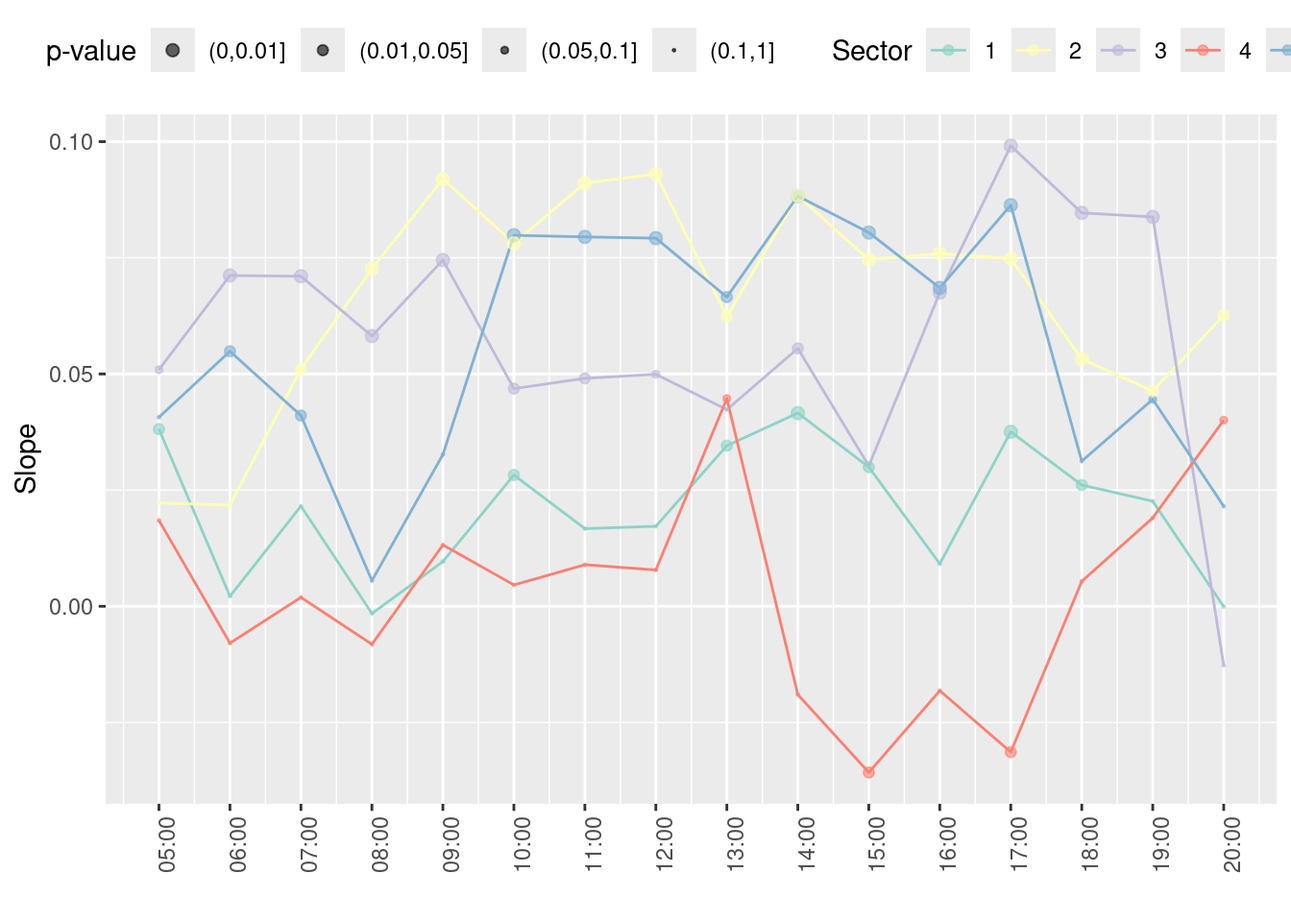
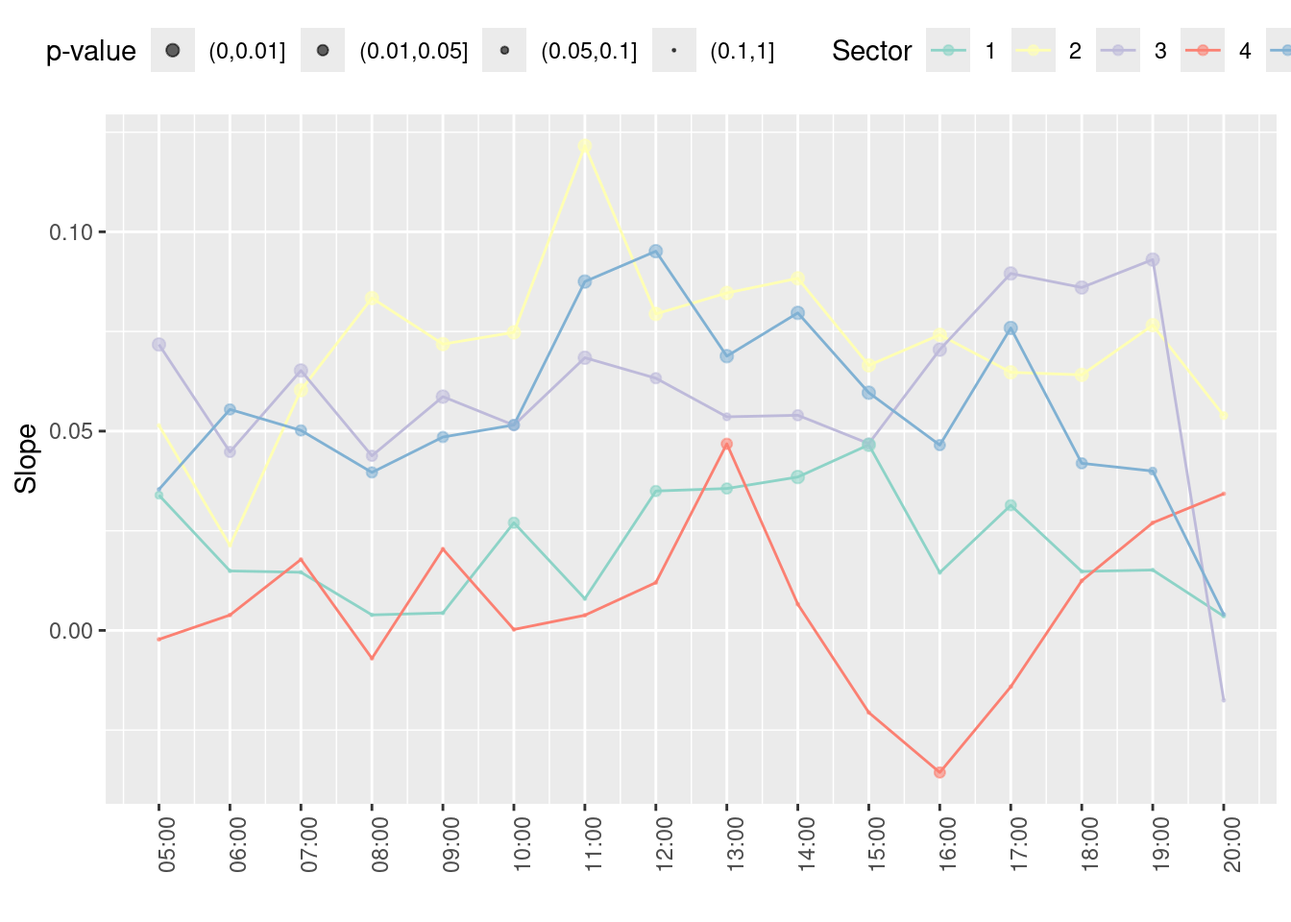
Built site for gh-pages

diff --git a/3B_Analysis_WWD_allowed.html b/3B_Analysis_WWD_allowed.html
@@ -1097,28 +1097,56 @@ Projected CRS: MAGNA-SIRGAS / Colombia Bogota zone
 <span id="cb58-2"><a href="#cb58-2" aria-hidden="true" tabindex="-1"></a>  <span class="fu">filter</span>(day_type <span class="sc">==</span> <span class="st">"weekday"</span>) <span class="sc">|&gt;</span> </span>
 <span id="cb58-3"><a href="#cb58-3" aria-hidden="true" tabindex="-1"></a>  <span class="fu">mutate</span>(<span class="at">stars =</span> <span class="fu">cut</span>( p.value,</span>
 <span id="cb58-4"><a href="#cb58-4" aria-hidden="true" tabindex="-1"></a>                      <span class="at">breaks =</span> <span class="fu">c</span>(<span class="dv">0</span>,<span class="fl">0.01</span>,<span class="fl">0.05</span>,<span class="fl">0.1</span>,<span class="dv">1</span>))) <span class="sc">|&gt;</span> </span>
-<span id="cb58-5"><a href="#cb58-5" aria-hidden="true" tabindex="-1"></a>  <span class="fu">filter</span>(term <span class="sc">==</span> <span class="st">"intercept"</span>,<span class="fu">between</span>(hour,<span class="dv">5</span>,<span class="dv">20</span>)) <span class="sc">|&gt;</span> </span>
-<span id="cb58-6"><a href="#cb58-6" aria-hidden="true" tabindex="-1"></a>  <span class="fu">ggplot</span>(<span class="fu">aes</span>(<span class="at">x =</span> hour,</span>
-<span id="cb58-7"><a href="#cb58-7" aria-hidden="true" tabindex="-1"></a>             <span class="at">y =</span> (estimate)</span>
+<span id="cb58-5"><a href="#cb58-5" aria-hidden="true" tabindex="-1"></a>  <span class="fu">filter</span>(term <span class="sc">==</span> <span class="st">"slope"</span>,<span class="fu">between</span>(hour,<span class="dv">5</span>,<span class="dv">20</span>)) <span class="sc">|&gt;</span> </span>
+<span id="cb58-6"><a href="#cb58-6" aria-hidden="true" tabindex="-1"></a>  <span class="fu">ggplot</span>(<span class="fu">aes</span>(<span class="at">x =</span> <span class="fu">factor</span>(sector),</span>
+<span id="cb58-7"><a href="#cb58-7" aria-hidden="true" tabindex="-1"></a>             <span class="at">y =</span> estimate</span>
 <span id="cb58-8"><a href="#cb58-8" aria-hidden="true" tabindex="-1"></a>             ))<span class="sc">+</span></span>
-<span id="cb58-9"><a href="#cb58-9" aria-hidden="true" tabindex="-1"></a>  <span class="fu">geom_line</span>(<span class="fu">aes</span>(<span class="at">col =</span> <span class="fu">factor</span>(sector)))<span class="sc">+</span></span>
-<span id="cb58-10"><a href="#cb58-10" aria-hidden="true" tabindex="-1"></a>    <span class="fu">geom_point</span>(<span class="fu">aes</span>(<span class="at">size =</span> stars,<span class="at">col =</span> <span class="fu">factor</span>(sector)),<span class="at">alpha =</span> <span class="fl">0.6</span>)<span class="sc">+</span></span>
-<span id="cb58-11"><a href="#cb58-11" aria-hidden="true" tabindex="-1"></a>  <span class="co"># facet_grid(.~sector)+</span></span>
-<span id="cb58-12"><a href="#cb58-12" aria-hidden="true" tabindex="-1"></a>  <span class="fu">theme</span>(<span class="at">legend.position =</span> <span class="st">"top"</span>)<span class="sc">+</span></span>
-<span id="cb58-13"><a href="#cb58-13" aria-hidden="true" tabindex="-1"></a>  <span class="fu">scale_color_brewer</span>(<span class="at">type =</span> <span class="st">"qual"</span>,</span>
-<span id="cb58-14"><a href="#cb58-14" aria-hidden="true" tabindex="-1"></a>                     <span class="at">palette =</span> <span class="st">"Set3"</span>)<span class="sc">+</span></span>
-<span id="cb58-15"><a href="#cb58-15" aria-hidden="true" tabindex="-1"></a>  <span class="fu">scale_size_manual</span>(<span class="at">values =</span> <span class="fu">c</span>(<span class="dv">1</span>,<span class="fl">0.8</span>,<span class="fl">0.5</span>,<span class="fl">0.1</span>)<span class="sc">*</span><span class="dv">2</span>,<span class="at">na.value =</span> <span class="dv">0</span>)<span class="sc">+</span></span>
-<span id="cb58-16"><a href="#cb58-16" aria-hidden="true" tabindex="-1"></a>  <span class="fu">labs</span>(<span class="at">y =</span> <span class="st">"Intercept"</span>,</span>
-<span id="cb58-17"><a href="#cb58-17" aria-hidden="true" tabindex="-1"></a>       <span class="at">x =</span> <span class="st">""</span>,</span>
-<span id="cb58-18"><a href="#cb58-18" aria-hidden="true" tabindex="-1"></a>       <span class="at">col =</span> <span class="st">"Sector"</span>,<span class="at">size =</span> <span class="st">"p-value"</span>)<span class="sc">+</span></span>
-<span id="cb58-19"><a href="#cb58-19" aria-hidden="true" tabindex="-1"></a>  <span class="fu">theme</span>(<span class="at">legend.byrow =</span> T,</span>
-<span id="cb58-20"><a href="#cb58-20" aria-hidden="true" tabindex="-1"></a>        <span class="at">axis.text.x =</span> <span class="fu">element_text</span>(<span class="at">angle =</span> <span class="dv">90</span>))<span class="sc">+</span></span>
-<span id="cb58-21"><a href="#cb58-21" aria-hidden="true" tabindex="-1"></a>  <span class="fu">scale_x_continuous</span>(<span class="at">breaks =</span> <span class="dv">0</span><span class="sc">:</span><span class="dv">24</span>,</span>
-<span id="cb58-22"><a href="#cb58-22" aria-hidden="true" tabindex="-1"></a>                     <span class="at">labels =</span> <span class="fu">sprintf</span>(<span class="st">"%02d:00"</span>,<span class="dv">0</span><span class="sc">:</span><span class="dv">24</span>))</span></code><button title="Copy to Clipboard" class="code-copy-button"><i class="bi"></i></button></pre></div>
+<span id="cb58-9"><a href="#cb58-9" aria-hidden="true" tabindex="-1"></a>  <span class="fu">geom_point</span>(<span class="fu">aes</span>(<span class="at">col =</span> <span class="fu">factor</span>(sector),<span class="at">size =</span> stars))<span class="sc">+</span></span>
+<span id="cb58-10"><a href="#cb58-10" aria-hidden="true" tabindex="-1"></a>  <span class="co"># facet_grid(.~sector)+</span></span>
+<span id="cb58-11"><a href="#cb58-11" aria-hidden="true" tabindex="-1"></a>  <span class="fu">theme</span>(<span class="at">legend.position =</span> <span class="st">"top"</span>)<span class="sc">+</span></span>
+<span id="cb58-12"><a href="#cb58-12" aria-hidden="true" tabindex="-1"></a>  <span class="fu">scale_color_brewer</span>(<span class="at">type =</span> <span class="st">"qual"</span>,</span>
+<span id="cb58-13"><a href="#cb58-13" aria-hidden="true" tabindex="-1"></a>                     <span class="at">palette =</span> <span class="st">"Set3"</span>)<span class="sc">+</span></span>
+<span id="cb58-14"><a href="#cb58-14" aria-hidden="true" tabindex="-1"></a>  <span class="fu">scale_size_manual</span>(<span class="at">values =</span> <span class="fu">c</span>(<span class="dv">1</span>,<span class="fl">0.8</span>,<span class="fl">0.5</span>,<span class="fl">0.1</span>)<span class="sc">*</span><span class="dv">2</span>,<span class="at">na.value =</span> <span class="dv">0</span>)<span class="sc">+</span></span>
+<span id="cb58-15"><a href="#cb58-15" aria-hidden="true" tabindex="-1"></a>  <span class="fu">labs</span>(<span class="at">y =</span> <span class="st">"Slope"</span>,</span>
+<span id="cb58-16"><a href="#cb58-16" aria-hidden="true" tabindex="-1"></a>       <span class="at">x =</span> <span class="st">"Sector"</span>,</span>
+<span id="cb58-17"><a href="#cb58-17" aria-hidden="true" tabindex="-1"></a>       <span class="at">size =</span> <span class="st">"p-value"</span>)<span class="sc">+</span></span>
+<span id="cb58-18"><a href="#cb58-18" aria-hidden="true" tabindex="-1"></a>  <span class="fu">guides</span>(<span class="at">color =</span> <span class="st">"none"</span>)<span class="sc">+</span></span>
+<span id="cb58-19"><a href="#cb58-19" aria-hidden="true" tabindex="-1"></a>  <span class="fu">coord_flip</span>()</span></code><button title="Copy to Clipboard" class="code-copy-button"><i class="bi"></i></button></pre></div>
 <div class="cell-output-display">
 <div>
 <figure class="figure">
 <p><img src="3B_Analysis_WWD_allowed_files/figure-html/unnamed-chunk-53-1.png" class="img-fluid figure-img" width="672"></p>
+</figure>
+</div>
+</div>
+</div>
+<div class="cell">
+<div class="sourceCode cell-code" id="cb59"><pre class="sourceCode r code-with-copy"><code class="sourceCode r"><span id="cb59-1"><a href="#cb59-1" aria-hidden="true" tabindex="-1"></a>coefs_sec_sampled <span class="sc">|&gt;</span> </span>
+<span id="cb59-2"><a href="#cb59-2" aria-hidden="true" tabindex="-1"></a>  <span class="fu">filter</span>(day_type <span class="sc">==</span> <span class="st">"weekday"</span>) <span class="sc">|&gt;</span> </span>
+<span id="cb59-3"><a href="#cb59-3" aria-hidden="true" tabindex="-1"></a>  <span class="fu">mutate</span>(<span class="at">stars =</span> <span class="fu">cut</span>( p.value,</span>
+<span id="cb59-4"><a href="#cb59-4" aria-hidden="true" tabindex="-1"></a>                      <span class="at">breaks =</span> <span class="fu">c</span>(<span class="dv">0</span>,<span class="fl">0.01</span>,<span class="fl">0.05</span>,<span class="fl">0.1</span>,<span class="dv">1</span>))) <span class="sc">|&gt;</span> </span>
+<span id="cb59-5"><a href="#cb59-5" aria-hidden="true" tabindex="-1"></a>  <span class="fu">filter</span>(term <span class="sc">==</span> <span class="st">"intercept"</span>,<span class="fu">between</span>(hour,<span class="dv">5</span>,<span class="dv">20</span>)) <span class="sc">|&gt;</span> </span>
+<span id="cb59-6"><a href="#cb59-6" aria-hidden="true" tabindex="-1"></a>  <span class="fu">ggplot</span>(<span class="fu">aes</span>(<span class="at">x =</span> hour,</span>
+<span id="cb59-7"><a href="#cb59-7" aria-hidden="true" tabindex="-1"></a>             <span class="at">y =</span> (estimate)</span>
+<span id="cb59-8"><a href="#cb59-8" aria-hidden="true" tabindex="-1"></a>             ))<span class="sc">+</span></span>
+<span id="cb59-9"><a href="#cb59-9" aria-hidden="true" tabindex="-1"></a>  <span class="fu">geom_line</span>(<span class="fu">aes</span>(<span class="at">col =</span> <span class="fu">factor</span>(sector)))<span class="sc">+</span></span>
+<span id="cb59-10"><a href="#cb59-10" aria-hidden="true" tabindex="-1"></a>    <span class="fu">geom_point</span>(<span class="fu">aes</span>(<span class="at">size =</span> stars,<span class="at">col =</span> <span class="fu">factor</span>(sector)),<span class="at">alpha =</span> <span class="fl">0.6</span>)<span class="sc">+</span></span>
+<span id="cb59-11"><a href="#cb59-11" aria-hidden="true" tabindex="-1"></a>  <span class="co"># facet_grid(.~sector)+</span></span>
+<span id="cb59-12"><a href="#cb59-12" aria-hidden="true" tabindex="-1"></a>  <span class="fu">theme</span>(<span class="at">legend.position =</span> <span class="st">"top"</span>)<span class="sc">+</span></span>
+<span id="cb59-13"><a href="#cb59-13" aria-hidden="true" tabindex="-1"></a>  <span class="fu">scale_color_brewer</span>(<span class="at">type =</span> <span class="st">"qual"</span>,</span>
+<span id="cb59-14"><a href="#cb59-14" aria-hidden="true" tabindex="-1"></a>                     <span class="at">palette =</span> <span class="st">"Set3"</span>)<span class="sc">+</span></span>
+<span id="cb59-15"><a href="#cb59-15" aria-hidden="true" tabindex="-1"></a>  <span class="fu">scale_size_manual</span>(<span class="at">values =</span> <span class="fu">c</span>(<span class="dv">1</span>,<span class="fl">0.8</span>,<span class="fl">0.5</span>,<span class="fl">0.1</span>)<span class="sc">*</span><span class="dv">2</span>,<span class="at">na.value =</span> <span class="dv">0</span>)<span class="sc">+</span></span>
+<span id="cb59-16"><a href="#cb59-16" aria-hidden="true" tabindex="-1"></a>  <span class="fu">labs</span>(<span class="at">y =</span> <span class="st">"Intercept"</span>,</span>
+<span id="cb59-17"><a href="#cb59-17" aria-hidden="true" tabindex="-1"></a>       <span class="at">x =</span> <span class="st">""</span>,</span>
+<span id="cb59-18"><a href="#cb59-18" aria-hidden="true" tabindex="-1"></a>       <span class="at">col =</span> <span class="st">"Sector"</span>,<span class="at">size =</span> <span class="st">"p-value"</span>)<span class="sc">+</span></span>
+<span id="cb59-19"><a href="#cb59-19" aria-hidden="true" tabindex="-1"></a>  <span class="fu">theme</span>(<span class="at">legend.byrow =</span> T,</span>
+<span id="cb59-20"><a href="#cb59-20" aria-hidden="true" tabindex="-1"></a>        <span class="at">axis.text.x =</span> <span class="fu">element_text</span>(<span class="at">angle =</span> <span class="dv">90</span>))<span class="sc">+</span></span>
+<span id="cb59-21"><a href="#cb59-21" aria-hidden="true" tabindex="-1"></a>  <span class="fu">scale_x_continuous</span>(<span class="at">breaks =</span> <span class="dv">0</span><span class="sc">:</span><span class="dv">24</span>,</span>
+<span id="cb59-22"><a href="#cb59-22" aria-hidden="true" tabindex="-1"></a>                     <span class="at">labels =</span> <span class="fu">sprintf</span>(<span class="st">"%02d:00"</span>,<span class="dv">0</span><span class="sc">:</span><span class="dv">24</span>))</span></code><button title="Copy to Clipboard" class="code-copy-button"><i class="bi"></i></button></pre></div>
+<div class="cell-output-display">
+<div>
+<figure class="figure">
+<p><img src="3B_Analysis_WWD_allowed_files/figure-html/unnamed-chunk-54-1.png" class="img-fluid figure-img" width="672"></p>
 </figure>
 </div>
 </div>
@@ -1128,52 +1156,16 @@ Projected CRS: MAGNA-SIRGAS / Colombia Bogota zone
 <section id="daily-potential" class="level2">
 <h2 class="anchored" data-anchor-id="daily-potential">Daily potential</h2>
 <div class="cell">
-<div class="sourceCode cell-code" id="cb59"><pre class="sourceCode r code-with-copy"><code class="sourceCode r"><span id="cb59-1"><a href="#cb59-1" aria-hidden="true" tabindex="-1"></a>n_d10_logdiff_max <span class="ot">&lt;-</span> simpl_network_sf <span class="sc">|&gt;</span></span>
-<span id="cb59-2"><a href="#cb59-2" aria-hidden="true" tabindex="-1"></a>  <span class="fu">left_join</span>(summary_pairs,<span class="at">by =</span> <span class="st">"pair_id"</span>) <span class="sc">|&gt;</span>  </span>
-<span id="cb59-3"><a href="#cb59-3" aria-hidden="true" tabindex="-1"></a>  <span class="fu">mutate</span>(<span class="at">d10_bool =</span> logdiff_max <span class="sc">&gt;=</span> <span class="fu">quantile</span>(logdiff_max, <span class="fl">0.90</span>,<span class="at">na.rm =</span> T),</span>
-<span id="cb59-4"><a href="#cb59-4" aria-hidden="true" tabindex="-1"></a>         <span class="at">.by=</span><span class="fu">c</span>(hour,day_type,roadclass)) <span class="sc">|&gt;</span> </span>
-<span id="cb59-5"><a href="#cb59-5" aria-hidden="true" tabindex="-1"></a>  <span class="fu">st_drop_geometry</span>() <span class="sc">|&gt;</span> </span>
-<span id="cb59-6"><a href="#cb59-6" aria-hidden="true" tabindex="-1"></a>  <span class="fu">summarise</span>(<span class="at">n_d10 =</span> <span class="fu">sum</span>(d10_bool,<span class="at">na.rm =</span> T),<span class="at">.by =</span> <span class="fu">c</span>(pair_id,day_type)) <span class="sc">|&gt;</span> </span>
-<span id="cb59-7"><a href="#cb59-7" aria-hidden="true" tabindex="-1"></a>  <span class="fu">pivot_wider</span>(<span class="at">names_from =</span> day_type,<span class="at">values_from =</span> n_d10)</span></code><button title="Copy to Clipboard" class="code-copy-button"><i class="bi"></i></button></pre></div>
+<div class="sourceCode cell-code" id="cb60"><pre class="sourceCode r code-with-copy"><code class="sourceCode r"><span id="cb60-1"><a href="#cb60-1" aria-hidden="true" tabindex="-1"></a>n_d10_logdiff_max <span class="ot">&lt;-</span> simpl_network_sf <span class="sc">|&gt;</span></span>
+<span id="cb60-2"><a href="#cb60-2" aria-hidden="true" tabindex="-1"></a>  <span class="fu">left_join</span>(summary_pairs,<span class="at">by =</span> <span class="st">"pair_id"</span>) <span class="sc">|&gt;</span>  </span>
+<span id="cb60-3"><a href="#cb60-3" aria-hidden="true" tabindex="-1"></a>  <span class="fu">mutate</span>(<span class="at">d10_bool =</span> logdiff_max <span class="sc">&gt;=</span> <span class="fu">quantile</span>(logdiff_max, <span class="fl">0.90</span>,<span class="at">na.rm =</span> T),</span>
+<span id="cb60-4"><a href="#cb60-4" aria-hidden="true" tabindex="-1"></a>         <span class="at">.by=</span><span class="fu">c</span>(hour,day_type,roadclass)) <span class="sc">|&gt;</span> </span>
+<span id="cb60-5"><a href="#cb60-5" aria-hidden="true" tabindex="-1"></a>  <span class="fu">st_drop_geometry</span>() <span class="sc">|&gt;</span> </span>
+<span id="cb60-6"><a href="#cb60-6" aria-hidden="true" tabindex="-1"></a>  <span class="fu">summarise</span>(<span class="at">n_d10 =</span> <span class="fu">sum</span>(d10_bool,<span class="at">na.rm =</span> T),<span class="at">.by =</span> <span class="fu">c</span>(pair_id,day_type)) <span class="sc">|&gt;</span> </span>
+<span id="cb60-7"><a href="#cb60-7" aria-hidden="true" tabindex="-1"></a>  <span class="fu">pivot_wider</span>(<span class="at">names_from =</span> day_type,<span class="at">values_from =</span> n_d10)</span></code><button title="Copy to Clipboard" class="code-copy-button"><i class="bi"></i></button></pre></div>
 </div>
 <div class="cell">
-<div class="sourceCode cell-code" id="cb60"><pre class="sourceCode r code-with-copy"><code class="sourceCode r"><span id="cb60-1"><a href="#cb60-1" aria-hidden="true" tabindex="-1"></a>map_ratruns_wk <span class="ot">&lt;-</span> simpl_network_sf <span class="sc">|&gt;</span></span>
-<span id="cb60-2"><a href="#cb60-2" aria-hidden="true" tabindex="-1"></a>  <span class="fu">left_join</span>(n_d10_logdiff_max, <span class="at">by =</span> <span class="st">"pair_id"</span>) <span class="sc">|&gt;</span></span>
-<span id="cb60-3"><a href="#cb60-3" aria-hidden="true" tabindex="-1"></a>  <span class="fu">mutate</span>(<span class="fu">across</span>(weekday<span class="sc">:</span>weekend, \(x) {</span>
-<span id="cb60-4"><a href="#cb60-4" aria-hidden="true" tabindex="-1"></a>    <span class="fu">if_else</span>(roadclass <span class="sc">==</span> <span class="st">"residential"</span>, x, <span class="cn">NA</span>)</span>
-<span id="cb60-5"><a href="#cb60-5" aria-hidden="true" tabindex="-1"></a>    })) <span class="sc">|&gt;</span></span>
-<span id="cb60-6"><a href="#cb60-6" aria-hidden="true" tabindex="-1"></a>  <span class="fu">mutate</span>(<span class="fu">across</span>(weekday<span class="sc">:</span>weekend, <span class="fu">list</span>(</span>
-<span id="cb60-7"><a href="#cb60-7" aria-hidden="true" tabindex="-1"></a>    <span class="at">ld =</span> \(x) {</span>
-<span id="cb60-8"><a href="#cb60-8" aria-hidden="true" tabindex="-1"></a>      <span class="fu">if_else</span>(roadclass <span class="sc">!=</span> <span class="st">"residential"</span>, <span class="dv">1</span>, x)</span>
-<span id="cb60-9"><a href="#cb60-9" aria-hidden="true" tabindex="-1"></a>      }))) <span class="sc">|&gt;</span></span>
-<span id="cb60-10"><a href="#cb60-10" aria-hidden="true" tabindex="-1"></a>  <span class="fu">ggplot</span>(<span class="fu">aes</span>(<span class="at">col =</span>  weekday,</span>
-<span id="cb60-11"><a href="#cb60-11" aria-hidden="true" tabindex="-1"></a>             <span class="at">linewidth =</span> weekday_ld)) <span class="sc">+</span></span>
-<span id="cb60-12"><a href="#cb60-12" aria-hidden="true" tabindex="-1"></a>  <span class="fu">geom_sf</span>() <span class="sc">+</span></span>
-<span id="cb60-13"><a href="#cb60-13" aria-hidden="true" tabindex="-1"></a>  <span class="fu">scale_colour_viridis_b</span>(<span class="at">na.value =</span> <span class="st">"gray30"</span>,</span>
-<span id="cb60-14"><a href="#cb60-14" aria-hidden="true" tabindex="-1"></a>                         <span class="at">option =</span> <span class="st">"plasma"</span>,</span>
-<span id="cb60-15"><a href="#cb60-15" aria-hidden="true" tabindex="-1"></a>                         <span class="at">direction =</span> <span class="sc">-</span><span class="dv">1</span>) <span class="sc">+</span></span>
-<span id="cb60-16"><a href="#cb60-16" aria-hidden="true" tabindex="-1"></a>  <span class="fu">scale_linewidth_continuous</span>(</span>
-<span id="cb60-17"><a href="#cb60-17" aria-hidden="true" tabindex="-1"></a>    <span class="at">limits =</span> <span class="fu">c</span>(<span class="dv">0</span>, <span class="dv">24</span>),</span>
-<span id="cb60-18"><a href="#cb60-18" aria-hidden="true" tabindex="-1"></a>    <span class="at">range =</span> <span class="fu">c</span>(<span class="fl">0.05</span>, <span class="fl">0.5</span>),</span>
-<span id="cb60-19"><a href="#cb60-19" aria-hidden="true" tabindex="-1"></a>    <span class="at">transform =</span> <span class="st">"exp"</span></span>
-<span id="cb60-20"><a href="#cb60-20" aria-hidden="true" tabindex="-1"></a>  ) <span class="sc">+</span></span>
-<span id="cb60-21"><a href="#cb60-21" aria-hidden="true" tabindex="-1"></a>  <span class="fu">theme_void</span>() <span class="sc">+</span></span>
-<span id="cb60-22"><a href="#cb60-22" aria-hidden="true" tabindex="-1"></a>  <span class="fu">guides</span>(<span class="at">linewidth =</span> <span class="st">"none"</span>) <span class="sc">+</span></span>
-<span id="cb60-23"><a href="#cb60-23" aria-hidden="true" tabindex="-1"></a>  <span class="fu">labs</span>(<span class="at">col =</span> <span class="st">"Rat-run potential"</span>) <span class="sc">+</span></span>
-<span id="cb60-24"><a href="#cb60-24" aria-hidden="true" tabindex="-1"></a>  <span class="fu">theme</span>(<span class="at">legend.position =</span> <span class="st">"inside"</span>,</span>
-<span id="cb60-25"><a href="#cb60-25" aria-hidden="true" tabindex="-1"></a>        <span class="at">legend.position.inside =</span> <span class="fu">c</span>(<span class="fl">0.2</span>, <span class="fl">0.7</span>))</span>
-<span id="cb60-26"><a href="#cb60-26" aria-hidden="true" tabindex="-1"></a></span>
-<span id="cb60-27"><a href="#cb60-27" aria-hidden="true" tabindex="-1"></a>map_ratruns_wk</span></code><button title="Copy to Clipboard" class="code-copy-button"><i class="bi"></i></button></pre></div>
-<div class="cell-output-display">
-<div>
-<figure class="figure">
-<p><img src="3B_Analysis_WWD_allowed_files/figure-html/unnamed-chunk-55-1.png" class="img-fluid figure-img" width="672"></p>
-</figure>
-</div>
-</div>
-</div>
-<div class="cell">
-<div class="sourceCode cell-code" id="cb61"><pre class="sourceCode r code-with-copy"><code class="sourceCode r"><span id="cb61-1"><a href="#cb61-1" aria-hidden="true" tabindex="-1"></a>simpl_network_sf <span class="sc">|&gt;</span></span>
+<div class="sourceCode cell-code" id="cb61"><pre class="sourceCode r code-with-copy"><code class="sourceCode r"><span id="cb61-1"><a href="#cb61-1" aria-hidden="true" tabindex="-1"></a>map_ratruns_wk <span class="ot">&lt;-</span> simpl_network_sf <span class="sc">|&gt;</span></span>
 <span id="cb61-2"><a href="#cb61-2" aria-hidden="true" tabindex="-1"></a>  <span class="fu">left_join</span>(n_d10_logdiff_max, <span class="at">by =</span> <span class="st">"pair_id"</span>) <span class="sc">|&gt;</span></span>
 <span id="cb61-3"><a href="#cb61-3" aria-hidden="true" tabindex="-1"></a>  <span class="fu">mutate</span>(<span class="fu">across</span>(weekday<span class="sc">:</span>weekend, \(x) {</span>
 <span id="cb61-4"><a href="#cb61-4" aria-hidden="true" tabindex="-1"></a>    <span class="fu">if_else</span>(roadclass <span class="sc">==</span> <span class="st">"residential"</span>, x, <span class="cn">NA</span>)</span>
@@ -1181,7 +1173,43 @@ Projected CRS: MAGNA-SIRGAS / Colombia Bogota zone
 <span id="cb61-6"><a href="#cb61-6" aria-hidden="true" tabindex="-1"></a>  <span class="fu">mutate</span>(<span class="fu">across</span>(weekday<span class="sc">:</span>weekend, <span class="fu">list</span>(</span>
 <span id="cb61-7"><a href="#cb61-7" aria-hidden="true" tabindex="-1"></a>    <span class="at">ld =</span> \(x) {</span>
 <span id="cb61-8"><a href="#cb61-8" aria-hidden="true" tabindex="-1"></a>      <span class="fu">if_else</span>(roadclass <span class="sc">!=</span> <span class="st">"residential"</span>, <span class="dv">1</span>, x)</span>
-<span id="cb61-9"><a href="#cb61-9" aria-hidden="true" tabindex="-1"></a>      })))</span></code><button title="Copy to Clipboard" class="code-copy-button"><i class="bi"></i></button></pre></div>
+<span id="cb61-9"><a href="#cb61-9" aria-hidden="true" tabindex="-1"></a>      }))) <span class="sc">|&gt;</span></span>
+<span id="cb61-10"><a href="#cb61-10" aria-hidden="true" tabindex="-1"></a>  <span class="fu">ggplot</span>(<span class="fu">aes</span>(<span class="at">col =</span>  weekday,</span>
+<span id="cb61-11"><a href="#cb61-11" aria-hidden="true" tabindex="-1"></a>             <span class="at">linewidth =</span> weekday_ld)) <span class="sc">+</span></span>
+<span id="cb61-12"><a href="#cb61-12" aria-hidden="true" tabindex="-1"></a>  <span class="fu">geom_sf</span>() <span class="sc">+</span></span>
+<span id="cb61-13"><a href="#cb61-13" aria-hidden="true" tabindex="-1"></a>  <span class="fu">scale_colour_viridis_b</span>(<span class="at">na.value =</span> <span class="st">"gray30"</span>,</span>
+<span id="cb61-14"><a href="#cb61-14" aria-hidden="true" tabindex="-1"></a>                         <span class="at">option =</span> <span class="st">"plasma"</span>,</span>
+<span id="cb61-15"><a href="#cb61-15" aria-hidden="true" tabindex="-1"></a>                         <span class="at">direction =</span> <span class="sc">-</span><span class="dv">1</span>) <span class="sc">+</span></span>
+<span id="cb61-16"><a href="#cb61-16" aria-hidden="true" tabindex="-1"></a>  <span class="fu">scale_linewidth_continuous</span>(</span>
+<span id="cb61-17"><a href="#cb61-17" aria-hidden="true" tabindex="-1"></a>    <span class="at">limits =</span> <span class="fu">c</span>(<span class="dv">0</span>, <span class="dv">24</span>),</span>
+<span id="cb61-18"><a href="#cb61-18" aria-hidden="true" tabindex="-1"></a>    <span class="at">range =</span> <span class="fu">c</span>(<span class="fl">0.05</span>, <span class="fl">0.5</span>),</span>
+<span id="cb61-19"><a href="#cb61-19" aria-hidden="true" tabindex="-1"></a>    <span class="at">transform =</span> <span class="st">"exp"</span></span>
+<span id="cb61-20"><a href="#cb61-20" aria-hidden="true" tabindex="-1"></a>  ) <span class="sc">+</span></span>
+<span id="cb61-21"><a href="#cb61-21" aria-hidden="true" tabindex="-1"></a>  <span class="fu">theme_void</span>() <span class="sc">+</span></span>
+<span id="cb61-22"><a href="#cb61-22" aria-hidden="true" tabindex="-1"></a>  <span class="fu">guides</span>(<span class="at">linewidth =</span> <span class="st">"none"</span>) <span class="sc">+</span></span>
+<span id="cb61-23"><a href="#cb61-23" aria-hidden="true" tabindex="-1"></a>  <span class="fu">labs</span>(<span class="at">col =</span> <span class="st">"Rat-run potential"</span>) <span class="sc">+</span></span>
+<span id="cb61-24"><a href="#cb61-24" aria-hidden="true" tabindex="-1"></a>  <span class="fu">theme</span>(<span class="at">legend.position =</span> <span class="st">"inside"</span>,</span>
+<span id="cb61-25"><a href="#cb61-25" aria-hidden="true" tabindex="-1"></a>        <span class="at">legend.position.inside =</span> <span class="fu">c</span>(<span class="fl">0.2</span>, <span class="fl">0.7</span>))</span>
+<span id="cb61-26"><a href="#cb61-26" aria-hidden="true" tabindex="-1"></a></span>
+<span id="cb61-27"><a href="#cb61-27" aria-hidden="true" tabindex="-1"></a>map_ratruns_wk</span></code><button title="Copy to Clipboard" class="code-copy-button"><i class="bi"></i></button></pre></div>
+<div class="cell-output-display">
+<div>
+<figure class="figure">
+<p><img src="3B_Analysis_WWD_allowed_files/figure-html/unnamed-chunk-56-1.png" class="img-fluid figure-img" width="672"></p>
+</figure>
+</div>
+</div>
+</div>
+<div class="cell">
+<div class="sourceCode cell-code" id="cb62"><pre class="sourceCode r code-with-copy"><code class="sourceCode r"><span id="cb62-1"><a href="#cb62-1" aria-hidden="true" tabindex="-1"></a>simpl_network_sf <span class="sc">|&gt;</span></span>
+<span id="cb62-2"><a href="#cb62-2" aria-hidden="true" tabindex="-1"></a>  <span class="fu">left_join</span>(n_d10_logdiff_max, <span class="at">by =</span> <span class="st">"pair_id"</span>) <span class="sc">|&gt;</span></span>
+<span id="cb62-3"><a href="#cb62-3" aria-hidden="true" tabindex="-1"></a>  <span class="fu">mutate</span>(<span class="fu">across</span>(weekday<span class="sc">:</span>weekend, \(x) {</span>
+<span id="cb62-4"><a href="#cb62-4" aria-hidden="true" tabindex="-1"></a>    <span class="fu">if_else</span>(roadclass <span class="sc">==</span> <span class="st">"residential"</span>, x, <span class="cn">NA</span>)</span>
+<span id="cb62-5"><a href="#cb62-5" aria-hidden="true" tabindex="-1"></a>    })) <span class="sc">|&gt;</span></span>
+<span id="cb62-6"><a href="#cb62-6" aria-hidden="true" tabindex="-1"></a>  <span class="fu">mutate</span>(<span class="fu">across</span>(weekday<span class="sc">:</span>weekend, <span class="fu">list</span>(</span>
+<span id="cb62-7"><a href="#cb62-7" aria-hidden="true" tabindex="-1"></a>    <span class="at">ld =</span> \(x) {</span>
+<span id="cb62-8"><a href="#cb62-8" aria-hidden="true" tabindex="-1"></a>      <span class="fu">if_else</span>(roadclass <span class="sc">!=</span> <span class="st">"residential"</span>, <span class="dv">1</span>, x)</span>
+<span id="cb62-9"><a href="#cb62-9" aria-hidden="true" tabindex="-1"></a>      })))</span></code><button title="Copy to Clipboard" class="code-copy-button"><i class="bi"></i></button></pre></div>
 <div class="cell-output cell-output-stdout">
 <pre><code>Simple feature collection with 91970 features and 15 fields
 Geometry type: LINESTRING
